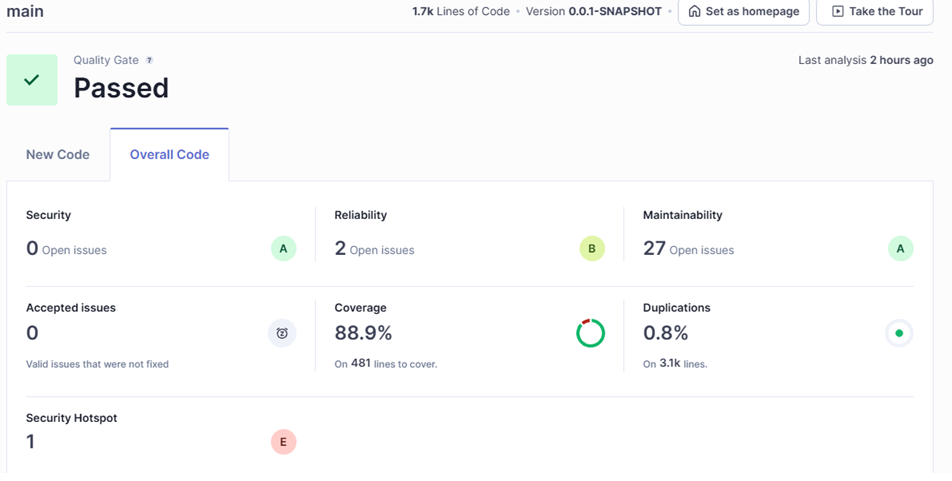
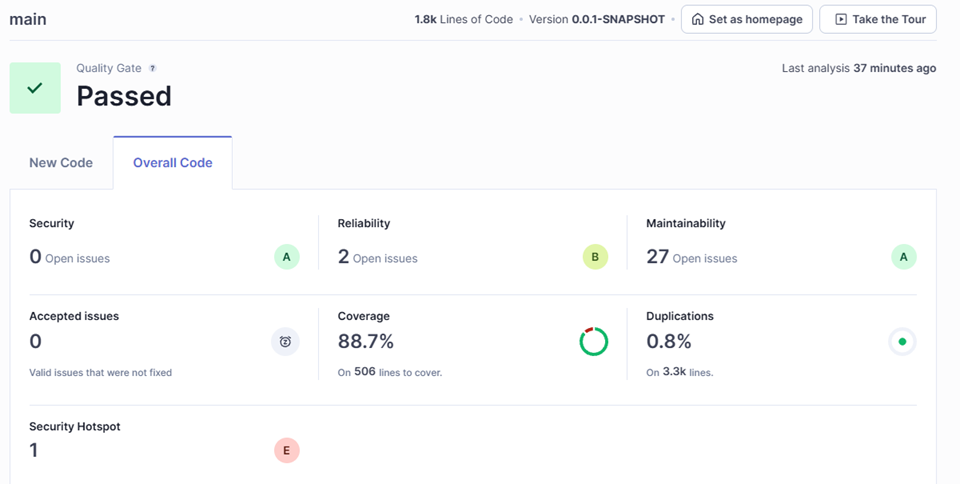
docs(evidencias): actualizar metricas reales y capturas finales de SonarQube

diff --git a/frontend/vite.config.ts b/frontend/vite.config.ts
@@ -16,6 +16,11 @@ export default defineConfig({
     globals: true,
     environment: 'jsdom',
     setupFiles: './src/setupTests.ts',
+    server: {
+      deps: {
+        inline: ['html-encoding-sniffer', '@exodus/bytes'],
+      },
+    },
     coverage: {
       provider: 'v8',
       reporter: ['text', 'lcov'],

diff --git a/docs/evidencias/EVIDENCIAS.md b/docs/evidencias/EVIDENCIAS.md
@@ -18,10 +18,10 @@ desde las observaciones del Hito 5.
 | Vulnerabilidades (Security issues) | 0 | A |
 | Security Hotspots | 1 | E (requiere revisión) |
 | Code Smells (Maintainability) | 27 | A |
-| Cobertura de código | 88.9% | Aceptada |
+| Cobertura de código | 88.7% | Aceptada |
 | Duplicaciones | 0.8% | Excelente |
 
-> **[PEGAR CAPTURA]** — Captura del dashboard de SonarQube mostrando el
+> Captura del dashboard de SonarQube mostrando el
 > estado del proyecto `apexmetrics-backend` con calificación de Quality Gate.
 >
 > Archivo de referencia: `sonarqube-backend.png`
@@ -37,16 +37,14 @@ desde las observaciones del Hito 5.
 
 | Métrica | Valor | Calificación |
 |---------|-------|--------------|
-| Bugs (Reliability issues) | 15 | A |
+| Bugs (Reliability issues) | 18 | A |
 | Vulnerabilidades (Security issues) | 0 | A |
 | Security Hotspots | 0 | A |
-| Code Smells (Maintainability) | 6 | A |
-| Cobertura de código | 0.0% * | Requiere ajuste de ruta del reporte lcov |
-| Duplicaciones | 5.6% | Aceptable |
+| Code Smells (Maintainability) | 7 | A |
+| Cobertura de código | 78.3% | Aceptada |
+| Duplicaciones | 6.4% | Aceptable |
 
-> \* *Nota: La cobertura del frontend se ejecuta correctamente con Vitest, pero la carga a SonarQube requiere afinar la ruta relativa del archivo lcov.info según el directorio de trabajo del escáner.*
->
-> **[PEGAR CAPTURA]** — Captura del dashboard de SonarQube mostrando el
+> Captura del dashboard de SonarQube mostrando el
 > estado del proyecto `apexmetrics-frontend` con calificación de Quality Gate.
 >
 > Archivo de referencia: `sonarqube-frontend.png`
@@ -77,7 +75,7 @@ El componente `TrackMap` integra **OpenStreetMap** a través de `react-leaflet`.
 La carga del mapa base se realiza correctamente y el trazado de telemetría se
 superpone sobre el mapa.
 
-> **[PEGAR CAPTURA]** — Captura del mapa mostrando el trazado de la sesión
+> Captura del mapa mostrando el trazado de la sesión
 > de telemetría sobre el fondo de OpenStreetMap, con la ruta visible.
 >
 > Archivo de referencia: `mapa-osm.png`
@@ -104,7 +102,7 @@ el trazado de la API interna (`GET /api/v1/telemetry/sesiones/{id}/trazado`):
 | Error de red (fetch rechazado) | Captura el error en el bloque `catch` y muestra el mensaje de error |
 | Error HTTP (4xx / 5xx) | Lee `ok` de la Response y lanza error con el status code |
 
-> **[PEGAR CAPTURA]** — Captura mostrando el estado del componente cuando
+> Captura mostrando el estado del componente cuando
 > el backend devuelve un error o no hay puntos de trazado disponibles.
 >
 > Archivo de referencia: `mapa-osm-fallo.png`
